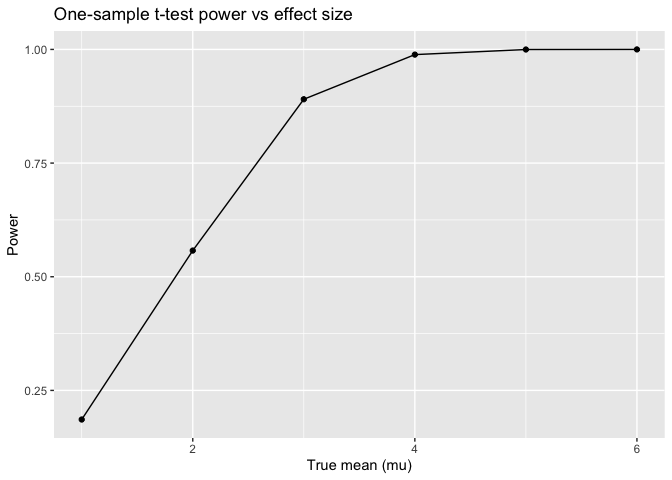
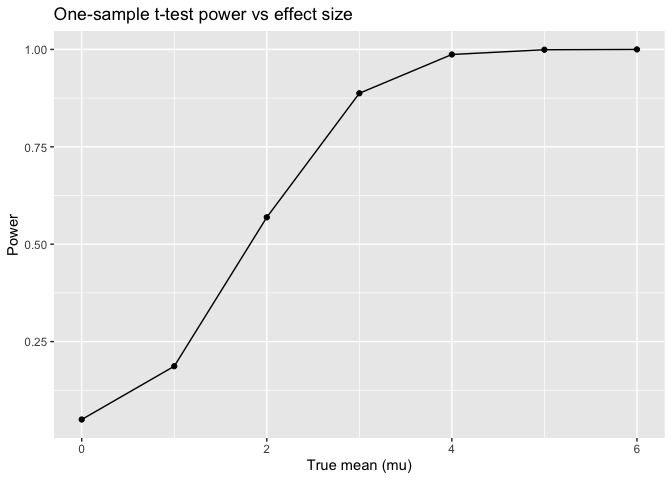
Modifiled the plots(included 0). Added comments on Problem 2, first plot.

diff --git a/p8105_hw5_mk4996.md b/p8105_hw5_mk4996.md
@@ -35,7 +35,7 @@ sim_p1 |>
 n     = 30
 sigma = 5
 alpha = 0.05
-mu_grid = c(1,2,3,4,5,6)
+mu_grid = c(0,1,2,3,4,5,6)
 
 one_trial = function(mu) {
   x = rnorm(n, mean = mu, sd = sigma)
@@ -70,6 +70,13 @@ power_df |>
 ```
 
 ![](p8105_hw5_mk4996_files/figure-gfm/unnamed-chunk-4-1.png)<!-- -->
+
+- **Comment** The plot shows how power increases as the true mean (µ)
+  moves away from zero. When µ=0, power is approximately 0.05, matching
+  the significance level (alpha=0.05). As the true mean increases, the
+  probability of correctly rejecting the null hypothesis rises sharply,
+  reaching nearly 1 for larger effect sizes. This pattern illustrates
+  that stronger effects are easier to detect with a fixed sample size.
 
 ## Compare average mu_hat (overall vs significant)
 
